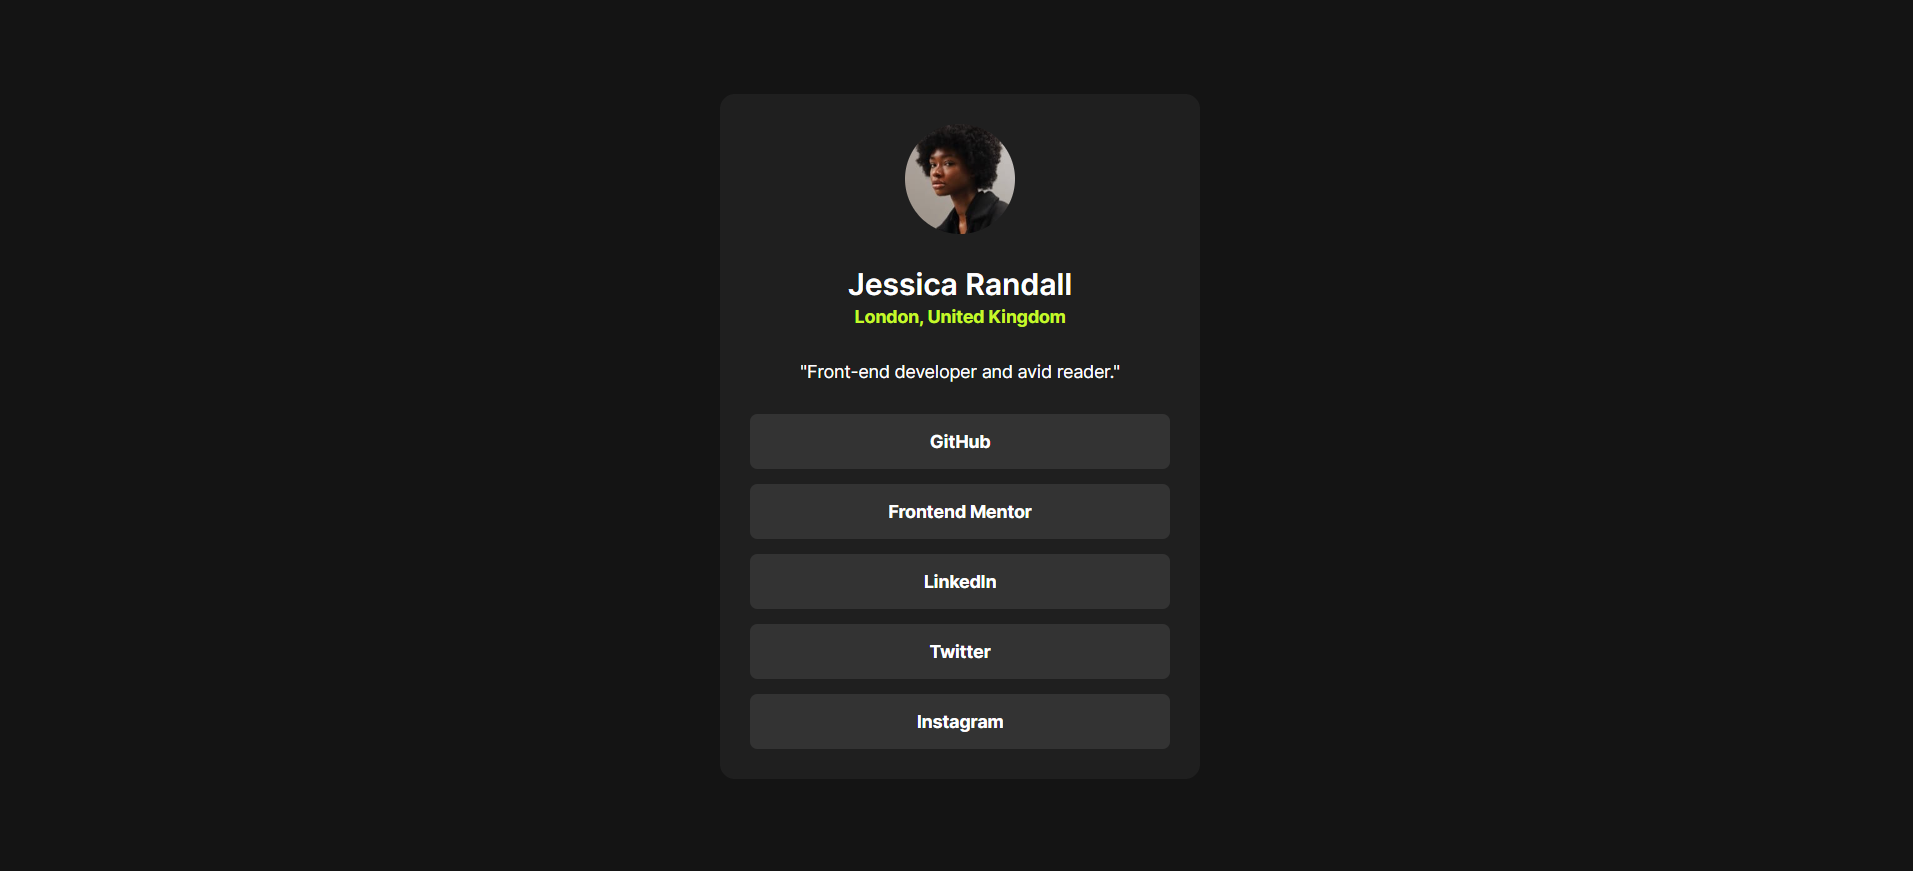
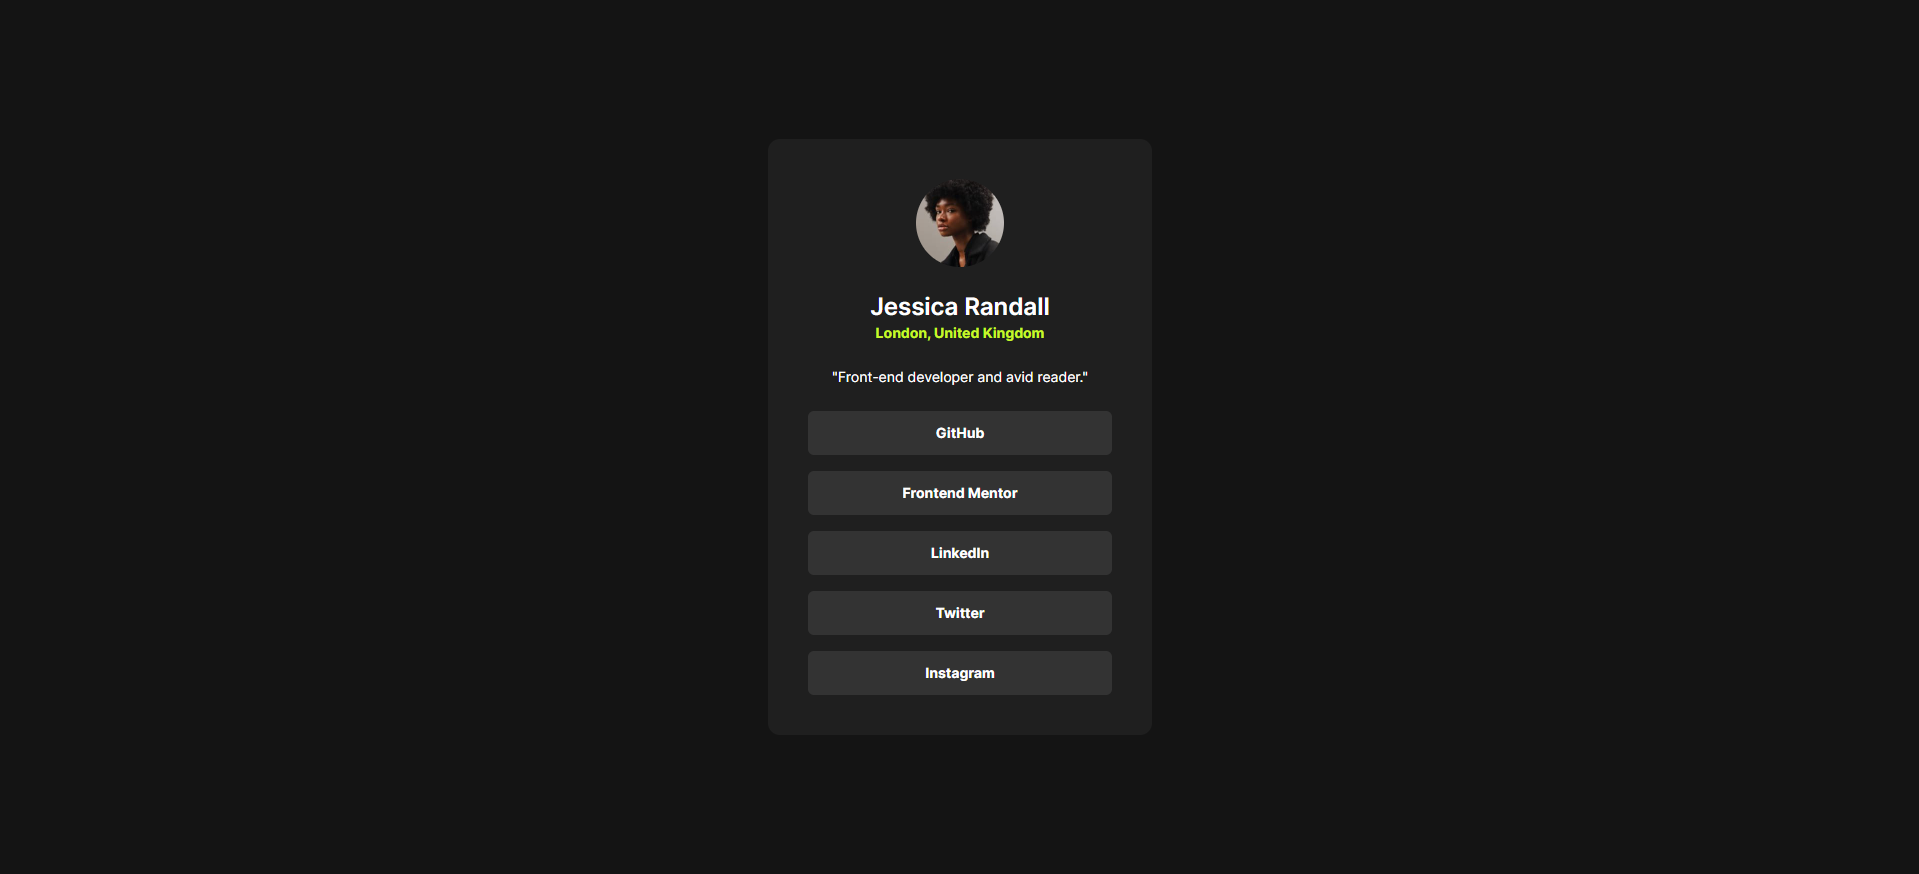
changed padding on card and gap between links

diff --git a/src/App.tsx b/src/App.tsx
@@ -11,7 +11,7 @@ const DUMMY_LINKS: { id: string; name: string; url: string }[] = [
 
 function App() {
   return (
-    <div className="animate-slide flex w-full max-w-[327px] flex-col items-center gap-6 rounded-xl bg-darkGrey1 p-6 sm:max-w-[384px]">
+    <div className="animate-slide flex w-full max-w-[327px] flex-col items-center gap-6 rounded-xl bg-darkGrey1 p-6 sm:max-w-[384px] sm:p-10">
       <img
         src={profile}
         alt=""
@@ -28,7 +28,7 @@ function App() {
       <p className="text-center text-sm font-normal text-white1">
         "Front-end developer and avid reader."
       </p>
-      <div className="flex w-full flex-col gap-3">
+      <div className="flex w-full flex-col gap-3 sm:gap-4">
         {DUMMY_LINKS.map((link) => (
           <Link key={link.id} href={link.url}>
             {link.name}
